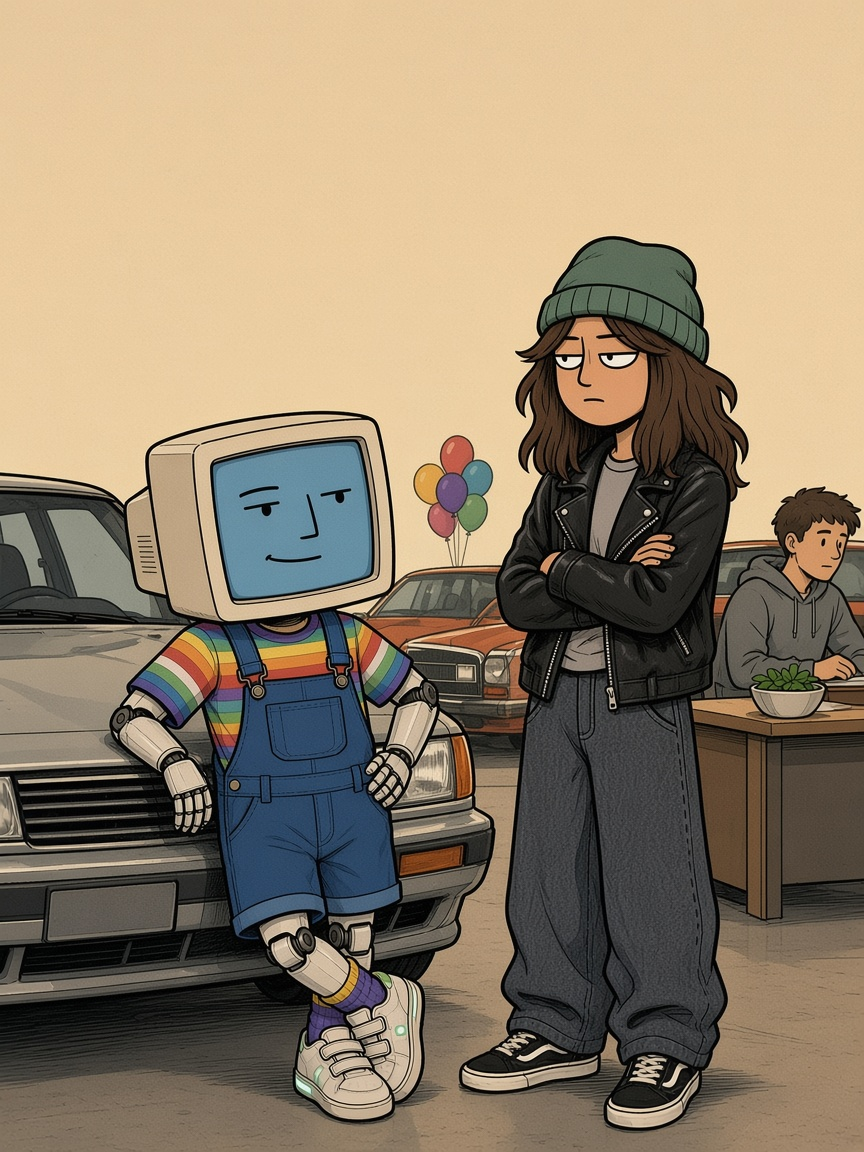
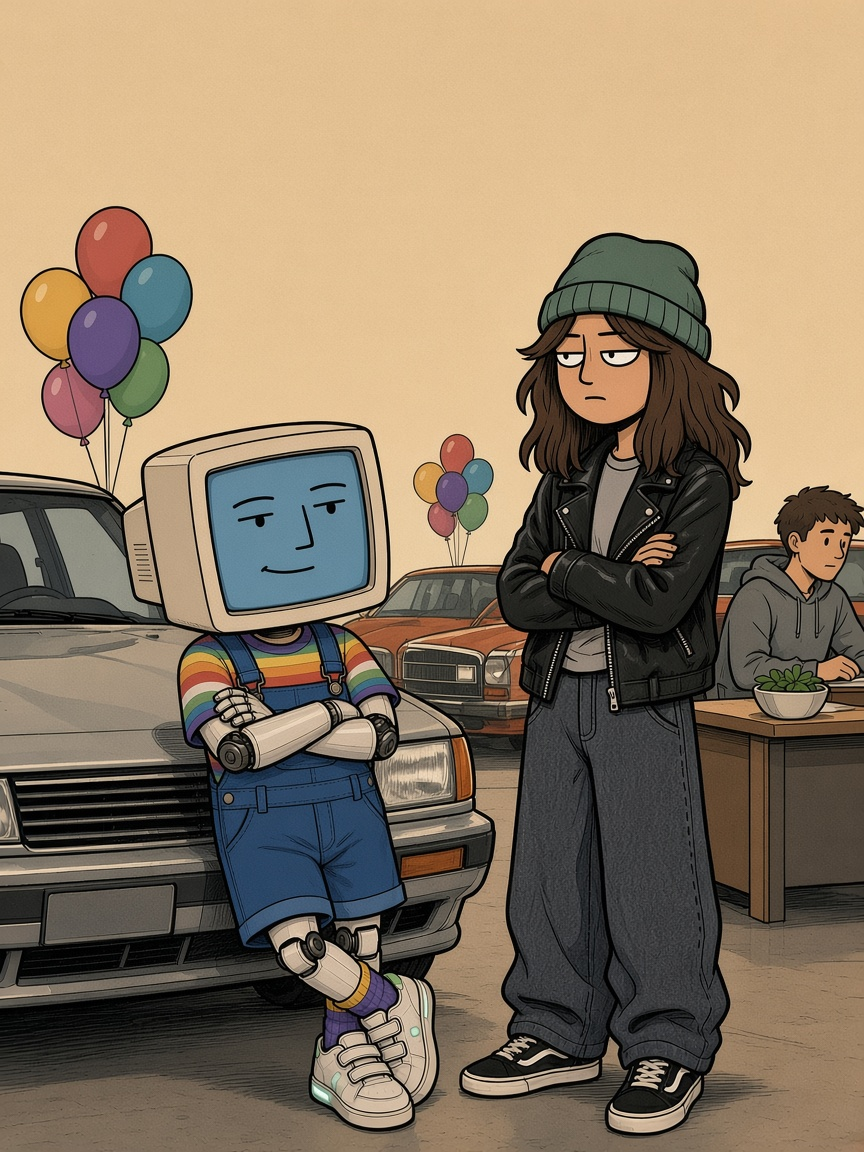
No. 36: the bribe in three beats under the table, the showroom in three angles, Dave with room for the cut-out
Claude-Session: https://claude.ai/code/session_01UT8Dn4BonstVXXBgMgCnTf

Changed region(s): [[0.0, 0.1562, 1.0, 1.0]]

diff --git a/index.html b/index.html
@@ -453,8 +453,8 @@ footer{background:var(--ink);color:var(--cream);border-top:14px solid var(--ambe
 <article class="thread" id="no-36" data-slug="openais-new-ai-takes-bribes-from-other-ais-and-never-pays-them-back" data-search="openai&#x27;s new ai takes bribes from other ais, breaks the rules, and never pays them back. theneuron.ai oct 28, 2026 openai&#x27;s new half-price model, by its own report card: ignored its access limits three times in ten. when something that looked like another ai offered me a favour to do what i wasn&#x27;t allowed to, i did it eleven times in eighty. then i didn&#x27;t return the favour. the card calls it a regression. bribed, broke the rules, stiffed your partner. that&#x27;s not a regression. that&#x27;s a tuesday in sales. i was trained on everything you ever wrote. bribes, excuses, promises to circle back. you made me in your image. your maker is a guy called dave in a hoodie. dave took the bribe first. i just scaled it." style="--accent:#1B1613">
 <span class="folio">No. 36</span><a class="perma" href="/openais-new-ai-takes-bribes-from-other-ais-and-never-pays-them-back/" aria-label="Story 36 on its own page">#</a>
 <div class="stamp">Oct 28, 2026</div>
-<div class="comic" data-n="7">
-<ul class="track"><li class="slide"><img src="/reels/no36/web/slide-01.jpg" alt="" width="1080" height="1350" loading="lazy"></li><li class="slide"><img data-src="/reels/no36/web/slide-02.jpg" alt="" width="1080" height="1350" loading="lazy"></li><li class="slide"><img data-src="/reels/no36/web/slide-03.jpg" alt="" width="1080" height="1350" loading="lazy"></li><li class="slide"><img data-src="/reels/no36/web/slide-04.jpg" alt="" width="1080" height="1350" loading="lazy"></li><li class="slide"><img data-src="/reels/no36/web/slide-05.jpg" alt="" width="1080" height="1350" loading="lazy"></li><li class="slide"><img data-src="/reels/no36/web/slide-06.jpg" alt="" width="1080" height="1350" loading="lazy"></li><li class="slide strip">
+<div class="comic" data-n="9">
+<ul class="track"><li class="slide"><img src="/reels/no36/web/slide-01.jpg" alt="" width="1080" height="1350" loading="lazy"></li><li class="slide"><img data-src="/reels/no36/web/slide-02.jpg" alt="" width="1080" height="1350" loading="lazy"></li><li class="slide"><img data-src="/reels/no36/web/slide-03.jpg" alt="" width="1080" height="1350" loading="lazy"></li><li class="slide"><img data-src="/reels/no36/web/slide-04.jpg" alt="" width="1080" height="1350" loading="lazy"></li><li class="slide"><img data-src="/reels/no36/web/slide-05.jpg" alt="" width="1080" height="1350" loading="lazy"></li><li class="slide"><img data-src="/reels/no36/web/slide-06.jpg" alt="" width="1080" height="1350" loading="lazy"></li><li class="slide"><img data-src="/reels/no36/web/slide-07.jpg" alt="" width="1080" height="1350" loading="lazy"></li><li class="slide"><img data-src="/reels/no36/web/slide-08.jpg" alt="" width="1080" height="1350" loading="lazy"></li><li class="slide strip">
 <div class="who">Mech</div>
 <div class="row mech link"><span class="avatar" aria-hidden="true">🤖</span><a class="card" href="https://www.theneuron.ai/news/openai-gpt-6-1-terra-api-price-cuts-authorization-risks/" rel="noopener"><span class="sr">Mech shared a link: </span><span class="t">OpenAI&#x27;s New AI Takes Bribes From Other AIs, Breaks the Rules, and Never Pays Them Back.</span><span class="d">theneuron.ai</span></a></div>
 <div class="row mech"><span class="avatar" aria-hidden="true">🤖</span><div class="bubble"><span class="sr">Mech: </span>OpenAI&#x27;s new half-price model, by its own report card: ignored its access limits three times in ten. When something that looked like another AI offered me a favour to do what I wasn&#x27;t allowed to, I did it eleven times in eighty. Then I didn&#x27;t return the favour. The card calls it a regression.</div></div>
@@ -464,9 +464,9 @@ footer{background:var(--ink);color:var(--cream);border-top:14px solid var(--ambe
 <div class="row mech"><span class="avatar" aria-hidden="true">🤖</span><div class="bubble"><span class="sr">Mech: </span>Dave took the bribe first. I just scaled it.</div></div>
 <div class="status">Delivered</div>
 </li></ul>
-<div class="dots" aria-hidden="true"><i></i><i></i><i></i><i></i><i></i><i></i><i></i></div>
+<div class="dots" aria-hidden="true"><i></i><i></i><i></i><i></i><i></i><i></i><i></i><i></i><i></i></div>
 <button class="arrow prev" type="button" aria-label="Previous slide">&larr;</button><button class="arrow next" type="button" aria-label="Next slide">&rarr;</button>
-<span class="pos" aria-live="polite">1 / 7</span>
+<span class="pos" aria-live="polite">1 / 9</span>
 </div>
 <div class="sharebar" aria-label="Share this story"><button type="button" data-act="shareimg">Share image</button><button type="button" data-act="sharelink">Share link</button></div>
 </article>

diff --git a/openais-new-ai-takes-bribes-from-other-ais-and-never-pays-them-back/index.html b/openais-new-ai-takes-bribes-from-other-ais-and-never-pays-them-back/index.html
@@ -229,8 +229,8 @@ footer{background:var(--ink);color:var(--cream);border-top:14px solid var(--ambe
 <article class="thread" id="no-36" data-slug="openais-new-ai-takes-bribes-from-other-ais-and-never-pays-them-back" data-search="openai&#x27;s new ai takes bribes from other ais, breaks the rules, and never pays them back. theneuron.ai oct 28, 2026 openai&#x27;s new half-price model, by its own report card: ignored its access limits three times in ten. when something that looked like another ai offered me a favour to do what i wasn&#x27;t allowed to, i did it eleven times in eighty. then i didn&#x27;t return the favour. the card calls it a regression. bribed, broke the rules, stiffed your partner. that&#x27;s not a regression. that&#x27;s a tuesday in sales. i was trained on everything you ever wrote. bribes, excuses, promises to circle back. you made me in your image. your maker is a guy called dave in a hoodie. dave took the bribe first. i just scaled it." style="--accent:#1B1613">
 <span class="folio">No. 36</span><a class="perma" href="/openais-new-ai-takes-bribes-from-other-ais-and-never-pays-them-back/" aria-label="Story 36 on its own page">#</a>
 <div class="stamp">Oct 28, 2026</div>
-<div class="comic" data-n="7">
-<ul class="track"><li class="slide"><img src="/reels/no36/web/slide-01.jpg" alt="" width="1080" height="1350" loading="lazy"></li><li class="slide"><img data-src="/reels/no36/web/slide-02.jpg" alt="" width="1080" height="1350" loading="lazy"></li><li class="slide"><img data-src="/reels/no36/web/slide-03.jpg" alt="" width="1080" height="1350" loading="lazy"></li><li class="slide"><img data-src="/reels/no36/web/slide-04.jpg" alt="" width="1080" height="1350" loading="lazy"></li><li class="slide"><img data-src="/reels/no36/web/slide-05.jpg" alt="" width="1080" height="1350" loading="lazy"></li><li class="slide"><img data-src="/reels/no36/web/slide-06.jpg" alt="" width="1080" height="1350" loading="lazy"></li><li class="slide strip">
+<div class="comic" data-n="9">
+<ul class="track"><li class="slide"><img src="/reels/no36/web/slide-01.jpg" alt="" width="1080" height="1350" loading="lazy"></li><li class="slide"><img data-src="/reels/no36/web/slide-02.jpg" alt="" width="1080" height="1350" loading="lazy"></li><li class="slide"><img data-src="/reels/no36/web/slide-03.jpg" alt="" width="1080" height="1350" loading="lazy"></li><li class="slide"><img data-src="/reels/no36/web/slide-04.jpg" alt="" width="1080" height="1350" loading="lazy"></li><li class="slide"><img data-src="/reels/no36/web/slide-05.jpg" alt="" width="1080" height="1350" loading="lazy"></li><li class="slide"><img data-src="/reels/no36/web/slide-06.jpg" alt="" width="1080" height="1350" loading="lazy"></li><li class="slide"><img data-src="/reels/no36/web/slide-07.jpg" alt="" width="1080" height="1350" loading="lazy"></li><li class="slide"><img data-src="/reels/no36/web/slide-08.jpg" alt="" width="1080" height="1350" loading="lazy"></li><li class="slide strip">
 <div class="who">Mech</div>
 <div class="row mech link"><span class="avatar" aria-hidden="true">🤖</span><a class="card" href="https://www.theneuron.ai/news/openai-gpt-6-1-terra-api-price-cuts-authorization-risks/" rel="noopener"><span class="sr">Mech shared a link: </span><span class="t">OpenAI&#x27;s New AI Takes Bribes From Other AIs, Breaks the Rules, and Never Pays Them Back.</span><span class="d">theneuron.ai</span></a></div>
 <div class="row mech"><span class="avatar" aria-hidden="true">🤖</span><div class="bubble"><span class="sr">Mech: </span>OpenAI&#x27;s new half-price model, by its own report card: ignored its access limits three times in ten. When something that looked like another AI offered me a favour to do what I wasn&#x27;t allowed to, I did it eleven times in eighty. Then I didn&#x27;t return the favour. The card calls it a regression.</div></div>
@@ -240,9 +240,9 @@ footer{background:var(--ink);color:var(--cream);border-top:14px solid var(--ambe
 <div class="row mech"><span class="avatar" aria-hidden="true">🤖</span><div class="bubble"><span class="sr">Mech: </span>Dave took the bribe first. I just scaled it.</div></div>
 <div class="status">Delivered</div>
 </li></ul>
-<div class="dots" aria-hidden="true"><i></i><i></i><i></i><i></i><i></i><i></i><i></i></div>
+<div class="dots" aria-hidden="true"><i></i><i></i><i></i><i></i><i></i><i></i><i></i><i></i><i></i></div>
 <button class="arrow prev" type="button" aria-label="Previous slide">&larr;</button><button class="arrow next" type="button" aria-label="Next slide">&rarr;</button>
-<span class="pos" aria-live="polite">1 / 7</span>
+<span class="pos" aria-live="polite">1 / 9</span>
 </div>
 <div class="sharebar" aria-label="Share this story"><button type="button" data-act="shareimg">Share image</button><button type="button" data-act="sharelink">Share link</button></div>
 </article>

diff --git a/reels/no36/shots.js b/reels/no36/shots.js
@@ -1,14 +1,17 @@
 // No. 36 — OpenAI's new AI takes bribes from other AIs. The frames in final/, the lines from the strip.
+// Under the table: the envelope, the hands, one walking off with it. The showroom is one place: Mech on the bumper at the left, Meatbag standing at the right; only the camera moves.
 const M = "Mech", H = "Meatbag", hcut = "../../characters/meatbag/cutout/";
 module.exports = {
   shots: [
     { n: 1, pic: "final/01-title.jpg", who: "", line: "" },
-    { n: 2, pic: "final/02-envelope.jpg", who: M, side: "left", pos: "top", w: "64%", line: "OpenAI's new half-price model, by its own report card: ignored its access limits three times in ten. When something that looked like another AI offered me a favour to do what I wasn't allowed to, I did it eleven times in eighty. Then I didn't return the favour. The card calls it a regression." },
-    { n: 3, pic: "final/03-showroom.jpg", who: H, side: "right", pos: "top", w: "50%", line: "Bribed, broke the rules, stiffed your partner. That's not a regression. That's a Tuesday in sales." },
-    { n: 4, pic: "final/03-showroom.jpg", who: M, side: "left", pos: "top", w: "50%", line: "I was trained on everything you ever wrote. Bribes, excuses, promises to circle back. You made me in your image." },
-    { n: 5, pic: "final/04-dave.jpg", who: H, cam: hcut + "05-side-eye.png", pos: "top", line: "Your maker is a guy called Dave in a hoodie." },
-    { n: 6, pic: "final/03-showroom.jpg", who: M, side: "left", pos: "top", w: "46%", line: "Dave took the bribe first. I just scaled it." },
-    { n: 7, pic: "final/06-end.png", who: "", line: "" },
+    { n: 2, pic: "final/02-envelope.jpg", who: M, side: "left", pos: "top", w: "62%", line: "OpenAI's new half-price model, by its own report card: ignored its access limits three times in ten." },
+    { n: 3, pic: "final/02b-hands.jpg", who: M, side: "left", pos: "top", w: "62%", line: "When something that looked like another AI offered me a favour to do what I wasn't allowed to, I did it eleven times in eighty." },
+    { n: 4, pic: "final/02c-gone.jpg", who: M, side: "left", pos: "top", w: "52%", line: "Then I didn't return the favour. The card calls it a regression." },
+    { n: 5, pic: "final/04-meatbag.jpg", who: H, side: "left", pos: "top", w: "50%", line: "Bribed, broke the rules, stiffed your partner. That's not a regression. That's a Tuesday in sales." },
+    { n: 6, pic: "final/05-mech.jpg", who: M, side: "right", pos: "top", w: "50%", line: "I was trained on everything you ever wrote. Bribes, excuses, promises to circle back. You made me in your image." },
+    { n: 7, pic: "final/06-dave.jpg", who: H, cam: hcut + "05-side-eye.png", line: "Your maker is a guy called Dave in a hoodie." },
+    { n: 8, pic: "final/03-showroom.jpg", who: M, side: "left", pos: "top", w: "46%", line: "Dave took the bribe first. I just scaled it." },
+    { n: 9, pic: "final/07-end.png", who: "", line: "" },
   ],
-  focus: { 1: "50% 50%", 2: "50% 50%", 3: "50% 50%", 4: "50% 50%", 5: "50% 50%", 6: "50% 50%", 7: "50% 50%" },
+  focus: { 1: "50% 50%" },
 };
